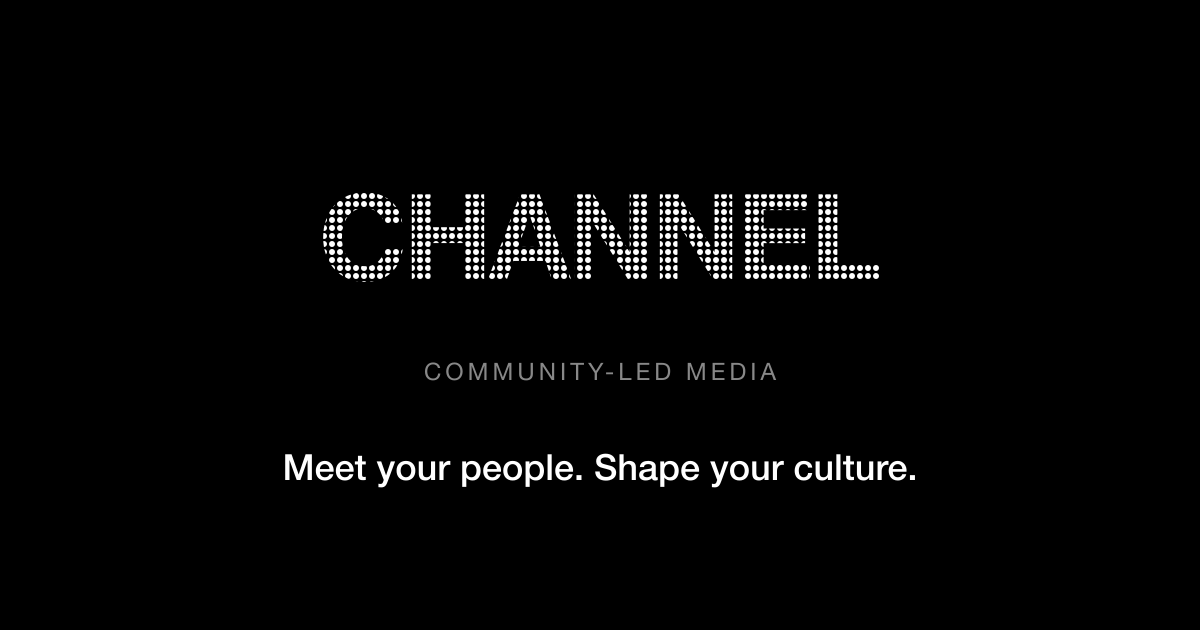
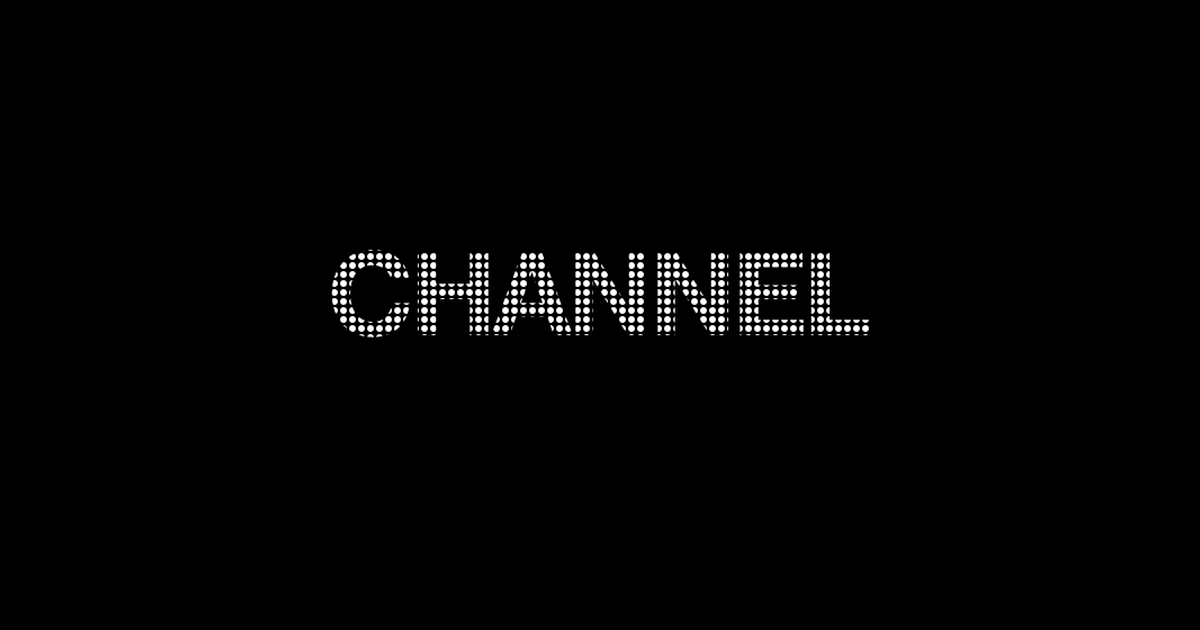
Update OG image and metadata for better share previews
- New OG image with just the CHANNEL logo, larger and centered
- Title: "Channel - Live DJ Radio"
- Description: "The live-streaming app for DJ shows. Turn every listen into real support for independent culture."

🤖 Generated with [Claude Code](https://claude.com/claude-code)

Changed region(s): [[0.2467, 0.3016, 0.74, 0.5429], [0.2158, 0.7238, 0.7708, 0.7841], [0.3392, 0.573, 0.6475, 0.6032]]

diff --git a/src/app/layout.tsx b/src/app/layout.tsx
@@ -3,12 +3,12 @@ import "./globals.css";
 import { Providers } from "./Providers";
 
 export const metadata: Metadata = {
-  title: "Channel - Community-Led Media",
-  description: "Meet your people. Shape your culture.",
+  title: "Channel - Live DJ Radio",
+  description: "The live-streaming app for DJ shows. Turn every listen into real support for independent culture.",
   metadataBase: new URL("https://channel-app.com"),
   openGraph: {
-    title: "Channel - Community-Led Media",
-    description: "Meet your people. Shape your culture.",
+    title: "Channel - Live DJ Radio",
+    description: "The live-streaming app for DJ shows. Turn every listen into real support for independent culture.",
     type: "website",
     url: "https://channel-app.com",
     images: [
@@ -21,8 +21,8 @@ export const metadata: Metadata = {
   },
   twitter: {
     card: "summary_large_image",
-    title: "Channel - Community-Led Media",
-    description: "Meet your people. Shape your culture.",
+    title: "Channel - Live DJ Radio",
+    description: "The live-streaming app for DJ shows. Turn every listen into real support for independent culture.",
     images: ["/og-image.png"],
   },
   icons: {
